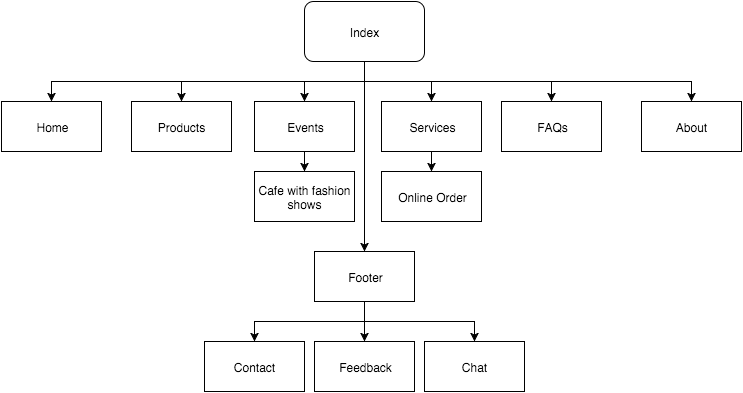
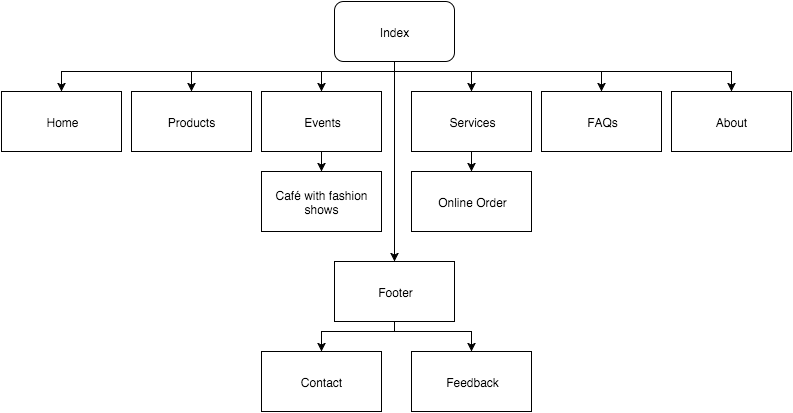
Version 1.1
#NEW
- Updated project plan and flowchart

diff --git a/plan.html b/plan.html
@@ -44,7 +44,7 @@
 <ul>
 <li>Contact</li>
 <li>Feedback</li>
-<li>Chat</li>
+<!---<li>Chat</li>--->
 </ul>
 </li>
 </ul>
